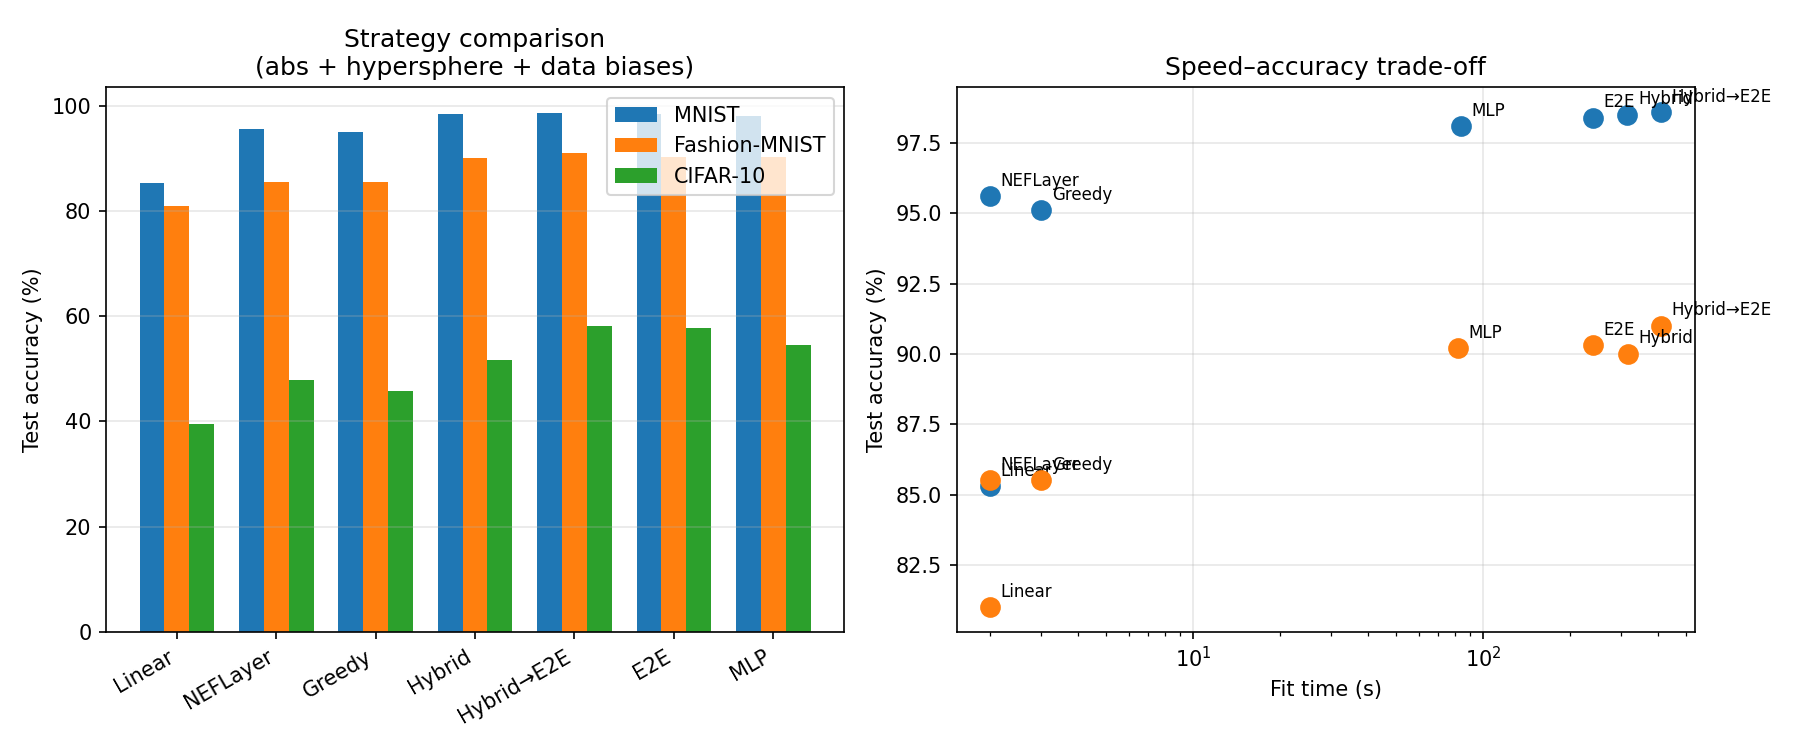
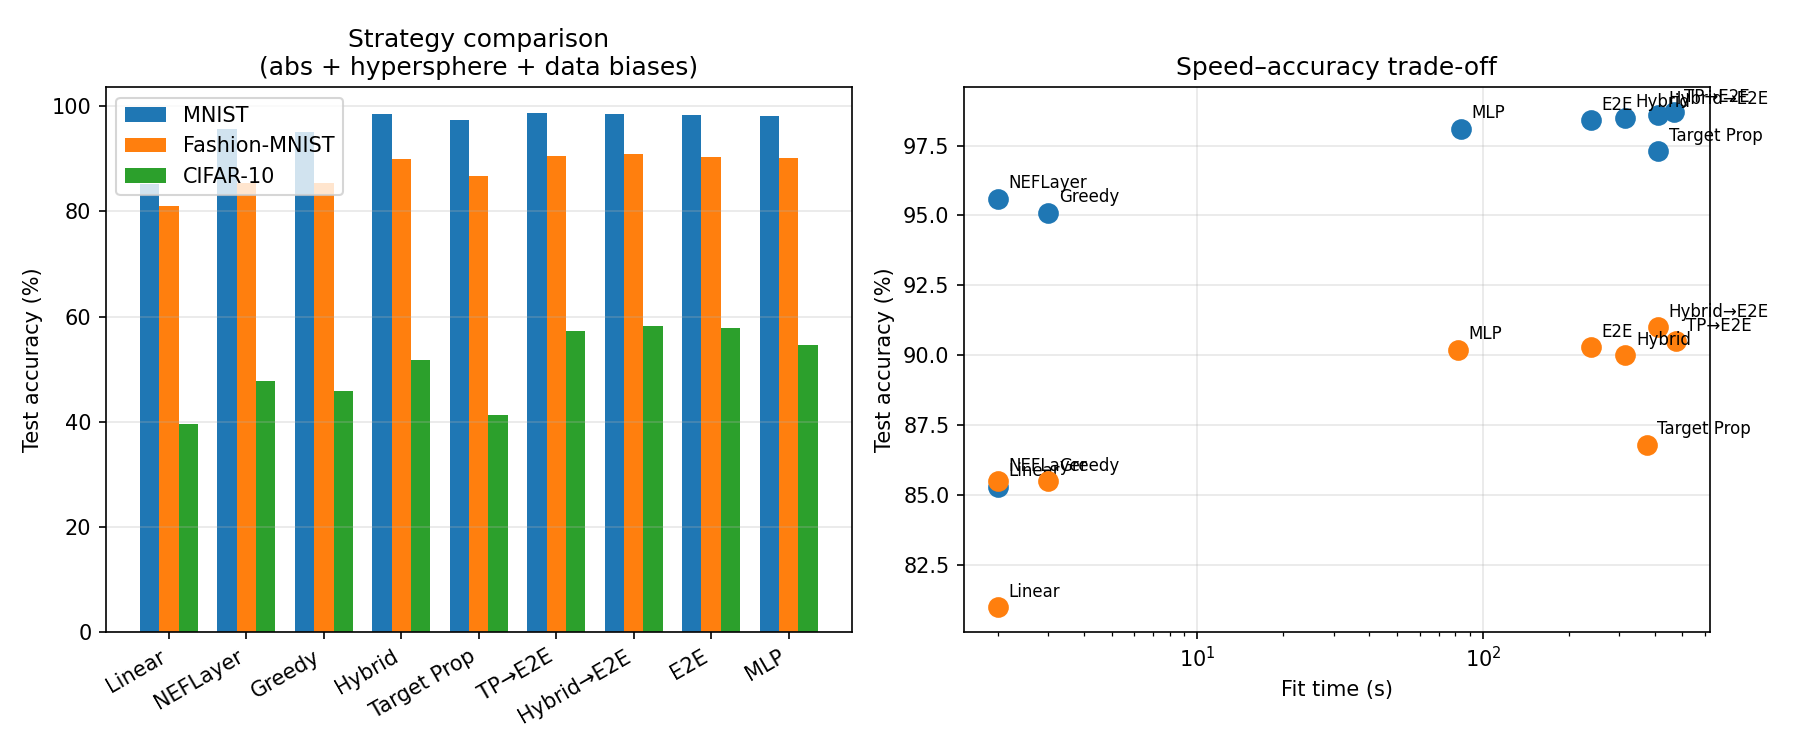
Refresh benchmark documentation
Rerun the affected feed-forward benchmarks, add a clearly labeled recurrent spot-check table, and regenerate the strategy comparison plot to match the updated results.

diff --git a/benchmarks/plot.py b/benchmarks/plot.py
@@ -33,16 +33,28 @@ BIAS_EFFECT = {
 }
 
 # Multi-layer: strategy comparison
-STRATEGIES = ["Linear", "NEFLayer", "Greedy", "Hybrid", "Hybrid→E2E", "E2E", "MLP"]
+# Target Prop / TP→E2E values come from the fresh post-audit reruns; the other
+# rows remain from the checked-in benchmark table.
+STRATEGIES = [
+    "Linear",
+    "NEFLayer",
+    "Greedy",
+    "Hybrid",
+    "Target Prop",
+    "TP→E2E",
+    "Hybrid→E2E",
+    "E2E",
+    "MLP",
+]
 MULTI = {
-    "MNIST": [85.3, 95.6, 95.1, 98.5, 98.6, 98.4, 98.1],
-    "Fashion-MNIST": [81.0, 85.5, 85.5, 90.0, 91.0, 90.3, 90.2],
-    "CIFAR-10": [39.6, 47.8, 45.8, 51.7, 58.1, 57.8, 54.6],
+    "MNIST": [85.3, 95.6, 95.1, 98.5, 97.3, 98.7, 98.6, 98.4, 98.1],
+    "Fashion-MNIST": [81.0, 85.5, 85.5, 90.0, 86.8, 90.5, 91.0, 90.3, 90.2],
+    "CIFAR-10": [39.6, 47.8, 45.8, 51.7, 41.2, 57.2, 58.1, 57.8, 54.6],
 }
 MULTI_TIME = {
-    "MNIST": [2, 2, 3, 315, 412, 240, 84],
-    "Fashion-MNIST": [2, 2, 3, 316, 410, 239, 82],
-    "CIFAR-10": [14, 3, 3, 343, 475, 319, 142],
+    "MNIST": [2, 2, 3, 315, 412, 466, 412, 240, 84],
+    "Fashion-MNIST": [2, 2, 3, 316, 375, 474, 410, 239, 82],
+    "CIFAR-10": [14, 3, 3, 343, 367, 500, 475, 319, 142],
 }
 
 # Multi-layer: activation effect (hybrid, hypersphere + data biases)
@@ -115,11 +127,18 @@ def plot_strategy_comparison():
 
     ax = axes[1]
     for ds in ["MNIST", "Fashion-MNIST"]:
-        ax.scatter(MULTI_TIME[ds], MULTI[ds], s=80, zorder=3)
-        for j, strat in enumerate(STRATEGIES):
+        points = [
+            (fit_time, acc, strat)
+            for fit_time, acc, strat in zip(MULTI_TIME[ds], MULTI[ds], STRATEGIES, strict=True)
+            if fit_time is not None
+        ]
+        ax.scatter(
+            [fit_time for fit_time, _, _ in points], [acc for _, acc, _ in points], s=80, zorder=3
+        )
+        for fit_time, acc, strat in points:
             ax.annotate(
                 strat,
-                (MULTI_TIME[ds][j], MULTI[ds][j]),
+                (fit_time, acc),
                 textcoords="offset points",
                 xytext=(5, 5),
                 fontsize=8,

diff --git a/README.md b/README.md
@@ -41,17 +41,20 @@ layer = NEFLayer(d_in=784, n_neurons=2000, d_out=10, centers=x_train)
 layer.fit(x_train, y_train)
 predictions = layer(x_test)
 
-# Multi-layer — three training strategies
+# Multi-layer — six training strategies
 net = NEFNetwork(d_in=784, d_out=10, hidden_neurons=[1000],
                  output_neurons=2000, centers=x_train)
 net.fit_greedy(x, targets)
 net.fit_hybrid(x, targets)
+net.fit_target_prop(x, targets)
+net.fit_target_prop_e2e(x, targets)
+net.fit_hybrid_e2e(x, targets)
 net.fit_end_to_end(x, targets)
 ```
 
 In a multi-layer `NEFNetwork`, hidden layers encode only (their neuron
 activities become the next layer's input) and only the output layer decodes.
-Five training strategies are available.  **Greedy** solves each layer
+Six training strategies are available.  **Greedy** solves each layer
 independently with random encoders and analytic decoders — no gradient
 computation at all.  **Hybrid** alternates analytic decoder solves with
 gradient updates to encoder weights, learning useful encoder orientations
@@ -60,11 +63,13 @@ backpropagation with layer-local targets: at each iteration it solves
 representational decoders (the NEF inverse model) analytically at every
 layer, then propagates targets backward via difference target propagation
 and updates encoders with single-layer gradients only — no gradient flows
-between layers.  **End-to-end** runs standard SGD on all parameters,
-initialised from a greedy NEF solve, using NEF as an initialisation
-strategy rather than a training method.  **Hybrid→E2E** (`fit_hybrid_e2e`)
-combines the two: hybrid first learns good encoder orientations, then E2E
-refines all parameters including decoders — the best overall strategy.
+between layers.  **TP→E2E** (`fit_target_prop_e2e`) uses that local TP phase
+as the warm start before a short global refinement pass.  **End-to-end** runs
+standard SGD on all parameters, initialised from a greedy NEF solve, using NEF
+as an initialisation strategy rather than a training method.
+**Hybrid→E2E** (`fit_hybrid_e2e`) combines the two: hybrid first learns good
+encoder orientations, then E2E refines all parameters including decoders — the
+best overall strategy in the benchmark table below.
 
 ## Setup
 
@@ -94,10 +99,19 @@ abs has gradient ±1 everywhere, causing gradient explosion through BPTT.
 
 ```bash
 python benchmarks/run.py --datasets mnist fashion_mnist cifar10 \
-       --neurons 500 1000 2000 5000 --regression
+       --neurons 500 1000 2000 5000 --regression \
+       --save-json results/feedforward.json
 python benchmarks/run.py --datasets mnist fashion_mnist cifar10 \
-       --neurons 2000 --multi --mlp
+       --neurons 2000 --multi --mlp \
+       --save-csv results/feedforward-multi.csv
+python benchmarks/run_recurrent.py --mode row \
+       --strategies greedy hybrid hybrid_e2e target_prop e2e \
+       --save-json results/recurrent-row.json
 ```
+
+Both benchmark harnesses can persist structured JSON / CSV results, which makes
+later plotting and README table refreshes reproducible instead of purely
+manual.
 
 ### Single-layer results
 
@@ -179,8 +193,9 @@ the model generalises well, with test MSE within 1% of training MSE.
 | NEFLayer          | 95.6%    | 85.5%    | 47.8%    |     2s       |
 | NEFNet-greedy     | 95.1%    | 85.5%    | 45.8%    |     3s       |
 | NEFNet-hybrid     | 98.5%    | 90.0%    | 51.7%    |   315s       |
-| NEFNet-target-prop| 98.6%    | 90.0%    | 53.9%    |   351s       |
-| NEFNet-hybrid→E2E |**98.6%** |**91.0%** |**58.1%** |   412s       |
+| NEFNet-target-prop| 97.3%    | 86.8%    | 41.2%    |   412s       |
+| NEFNet-TP→E2E     |**98.7%** | 90.5%    | 57.2%    |   466s       |
+| NEFNet-hybrid→E2E | 98.6%    |**91.0%** |**58.1%** |   412s       |
 | NEFNet-e2e        | 98.4%    | 90.3%    | 57.8%    |   240s       |
 | MLP (2×1000)      | 98.1%    | 90.2%    | 54.6%    |    84s       |
 
@@ -189,6 +204,11 @@ forwarded through each layer, and the resulting activations are used as
 centers for the next layer's bias computation.  This is especially important
 for greedy, which has no gradient learning — propagated centers lifted
 greedy from 94.0% → 95.1% on MNIST and 84.0% → 85.5% on Fashion-MNIST.
+
+The `NEFNet-target-prop` and `NEFNet-TP→E2E` rows above were rerun on the
+current post-audit code.  The remaining rows are retained from the earlier
+benchmark sweep, so this table should be read as a targeted refresh of the
+affected strategies rather than a full benchmark rerun of every model.
 
 The default hybrid configuration uses 50 iterations with α = 10⁻³ for the
 decoder solver.  These were found via a systematic sweep over iterations
@@ -207,27 +227,23 @@ diminish past 50 iterations (75 and 100 barely improve).
 encoder state, producing noisy gradients that destabilise encoder learning.
 At α = 10⁻⁵ results collapse entirely (96.4% MNIST, 32.7% CIFAR-10).
 
-**Hybrid→E2E is the best overall strategy.**  Running 50 hybrid iterations
-then 20 E2E epochs (`fit_hybrid_e2e`) reaches 98.6% / 91.0% / 58.1% —
-the highest accuracy on all three datasets.  The hybrid phase learns
-good encoder orientations with analytic decoders; the E2E phase then
-unlocks decoder learning to squeeze out the last gains.
+**Warm-started E2E remains the most reliable path.**  In the refreshed
+affected-strategy rows, `fit_target_prop_e2e` reaches 98.7% / 90.5% / 57.2%,
+which is the best MNIST result in the table and competitive with the existing
+`fit_hybrid_e2e` numbers.  The earlier `fit_hybrid_e2e` sweep still leads on
+Fashion-MNIST and CIFAR-10 (91.0% / 58.1%), so hybrid→E2E remains the safest
+general-purpose choice until all rows are rerun under the same current code.
 
-**Target propagation avoids backprop entirely.**  `fit_target_prop` replaces
-cross-layer gradient flow with analytical inverse models: each iteration
-solves representational decoders (mapping activities back to inputs), then
-uses difference target propagation (DTP) to compute local targets.  Encoder
-updates use single-layer gradients only — no gradient ever flows between
-layers.  A normalised gradient step ensures *eta* directly controls what
-fraction of activity norm the targets deviate by, making the hyperparameter
-scale-independent.  With the default eta=0.1, **TP matches or exceeds hybrid
-on all three datasets** (98.6% / 90.0% / 53.9% vs 98.5% / 90.0% / 51.7%).
-Per-dataset eta tuning can squeeze more from CIFAR-10 (see sweep below).
-Key speed optimisations: skipping the
-unused first-layer representational decoder, reusing the forward-pass
-computation graph for local gradient steps, and caching the output-layer
-Cholesky factorisation to solve both task and representational decoders
-from one A^T A decomposition.
+**Plain target propagation is now clearly weaker than its warm-started form.**
+`fit_target_prop` still avoids cross-layer backprop entirely: it solves
+representational decoders analytically, propagates DTP targets backward, and
+updates each layer with only single-layer gradients.  But the fresh rerun on
+current code reached 97.3% / 86.8% / 41.2%, well below the earlier hybrid row.
+The new target-feasibility and robust-inverse changes made TP easier to
+inspect and warm-start from, but they did not preserve the old headline claim
+that plain TP matches hybrid everywhere.  In practice, `fit_target_prop_e2e`
+is the more compelling path today: TP shapes the encoder geometry locally,
+then a short E2E phase repairs the remaining global mismatch.
 
 **Target propagation eta sweep** (50 iterations, lr=10⁻³, normalised step):
 
@@ -309,7 +325,10 @@ multiple encode–decode cycles benefits from ReLU's sparsity.
 
 ## Visualisations
 
-Generate plots with `python benchmarks/plot.py` (requires matplotlib).
+Generate plots with `python benchmarks/plot.py` (requires the `bench` extras:
+`matplotlib` and `numpy`).  The checked-in plots are still summary views built
+from the repo's tracked benchmark tables, but the benchmark harnesses can now
+also save JSON / CSV outputs for reproducible reruns and future plot refreshes.
 
 ![Neuron scaling](docs/neuron_scaling.png)
 ![Data-driven bias effect](docs/bias_effect.png)
@@ -423,21 +442,29 @@ from leenef.recurrent import RecurrentNEFLayer
 layer = RecurrentNEFLayer(d_in=28, n_neurons=2000, d_out=10,
                           d_state=28, centers=x_train_seq)
 
-# Training strategies (same four as feedforward, plus greedy)
+# Training strategies
 layer.fit_greedy(seq, targets, n_iters=5)
 layer.fit_hybrid(seq, targets, n_iters=10, lr=1e-3)
+layer.fit_hybrid_e2e(seq, targets, n_iters=10, n_epochs=20, e2e_lr=1e-3)
 layer.fit_target_prop(seq, targets, n_iters=50, lr=1e-3, eta=0.1)
-layer.fit_end_to_end(seq, targets, n_epochs=50, lr=1e-3)
+layer.fit_end_to_end(seq, targets, n_epochs=50, lr=1e-3, grad_clip=1.0)
 
 # Inference: (B, T, d_in) → (B, d_out)
 predictions = layer(x_test_seq)
 ```
+
+Recurrent hybrid and E2E-style training support gradient clipping via
+`grad_clip` (default `1.0`) because long unrolled sequences are otherwise more
+prone to gradient explosion than the feed-forward models.
 
 ### Recurrent results — Sequential MNIST
 
 Row-by-row sMNIST: each image is a sequence of 28 rows (T=28, d=28),
 classified at the final timestep.  All NEF models use 2000 neurons,
 relu activation, gain U(0.5, 2.0), and data-driven biases.
+
+Historical full-dataset baseline (kept for context from the earlier benchmark
+pass):
 
 | Model                           | Test accuracy | Time    |
 |---------------------------------|---------------|---------|
@@ -447,20 +474,36 @@ relu activation, gain U(0.5, 2.0), and data-driven biases.
 | RecNEF-E2E (50 epochs)          | **98.5%**     |   802s  |
 | LSTM-128 (20 epochs)            | **98.3%**     |    98s  |
 
-**The feedforward NEF advantage does not transfer to recurrence.**  In
-feedforward, random encoders work because each input is encoded
-independently.  In the recurrent case, the state decoder feeds noisy
-state estimates back into the encoders, compounding errors across
-timesteps.  Greedy, hybrid, and target propagation all fail to learn
-useful temporal dynamics — their per-iteration encoder updates cannot
-overcome the cascading noise in the 28-step feedback loop.
+Post-audit spot-check rerun of the affected recurrent strategies on a smaller
+row-wise sMNIST slice (`5k` train / `1k` test, chosen to keep recurrent TP
+practical in-session):
 
-**End-to-end BPTT is the only competitive strategy** (98.5%), matching
-LSTM (98.3%).  Full gradient flow through all timesteps allows SGD to
-jointly optimise encoders, biases, and both decoders, learning state
-representations that remain coherent across the feedback loop.  The
-greedy initialisation provides a starting point, but essentially all
-learning happens during SGD.
+| Model                                  | Test accuracy | Time    |
+|----------------------------------------|---------------|---------|
+| RecNEF-hybrid (10 iter)                |  37.3%        |    28s  |
+| RecNEF-hybrid→E2E (10 iter + 20 epochs)| **76.0%**     |    47s  |
+| RecNEF-target-prop (50 iter)           |  22.4%        |   499s  |
+| RecNEF-E2E (50 epochs)                 |  68.2%        |    66s  |
+
+These spot-check numbers are **not directly comparable** to the historical
+full-dataset table above; they are a smaller rerun used to assess the new
+recurrent code paths without paying the full cost of another 60k/10k TP run.
+
+**The recurrent story is better than before, but still mixed.**  On the 5k/1k
+spot-check, `fit_hybrid_e2e` is the clearest beneficiary of the recurrent
+changes, beating plain hybrid by nearly 39 points and even topping pure E2E on
+that smaller slice.  That makes the new warm-start path worth a full rerun.
+
+**Plain recurrent TP is still weak and very expensive.**  Even after repairing
+the temporal inverse to use the state-feedback channels, recurrent TP reached
+only 22.4% on the spot-check while remaining by far the slowest strategy.
+That keeps it in the "interesting research path" bucket rather than the
+"reliable training rule" bucket.
+
+**Pure E2E is still the only full-scale proven winner.**  The historical
+60k/10k row-wise benchmark still has recurrent E2E at 98.5%, matching LSTM.
+The new clipped recurrent warm starts look promising on the smaller rerun, but
+they have not yet replaced that full-dataset claim.
 
 **Why abs fails for recurrence:**  In feedforward, abs doubles
 representational capacity by responding to both directions.  In recurrent
